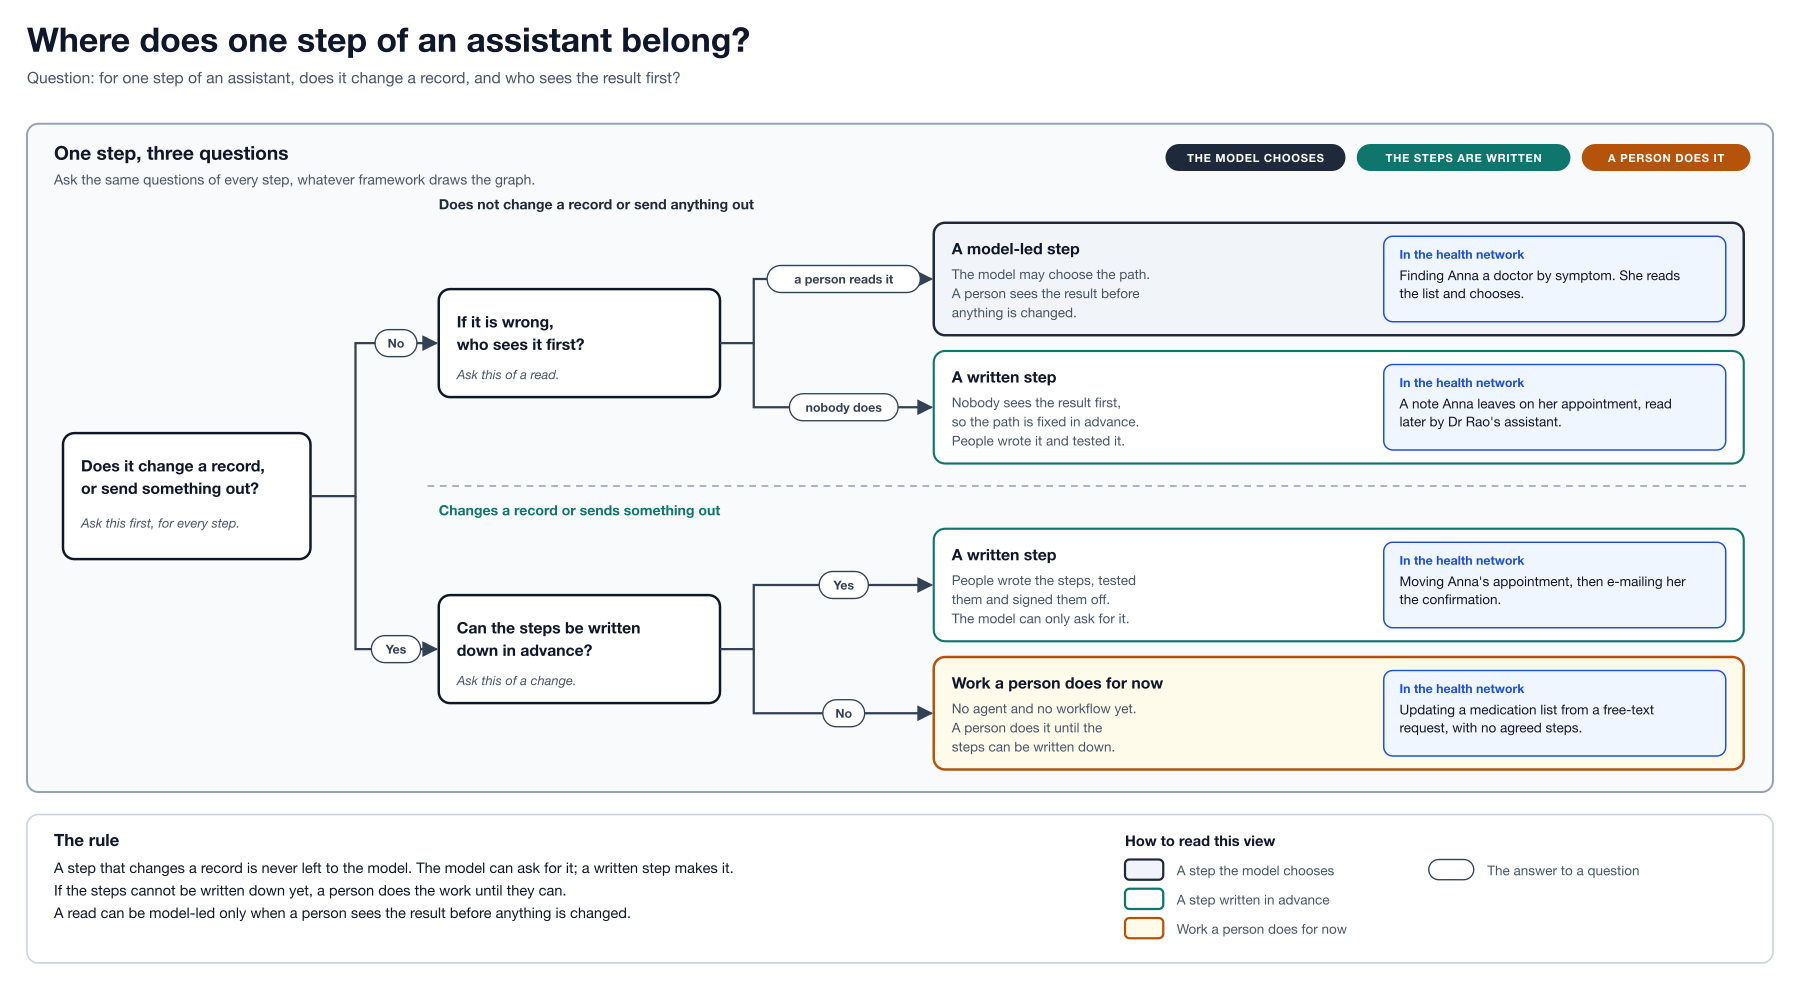
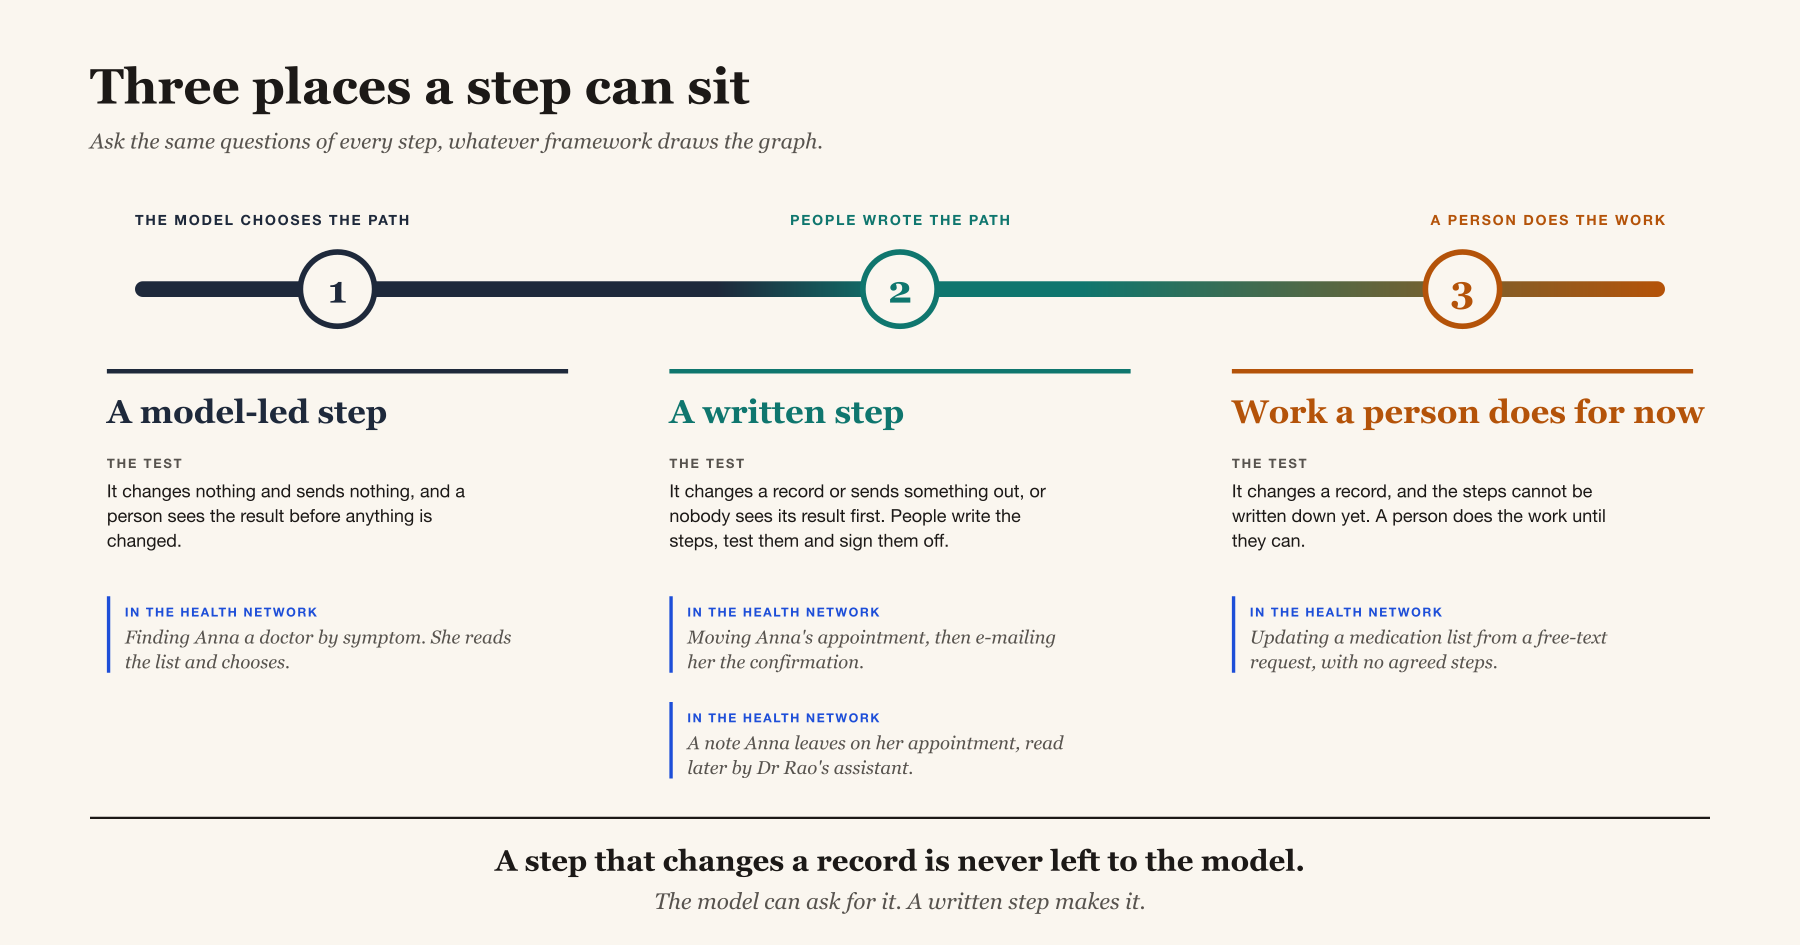
Redraw the sort of a step as one scale, with a different look from the logical view

Changed region(s): [[0.0311, 0.2148, 0.9644, 0.982], [0.0, 0.0307, 0.9956, 0.2148]]

diff --git a/01-agent-or-workflow/README.md b/01-agent-or-workflow/README.md
@@ -96,7 +96,7 @@ The variation that makes an agent useful at matching symptoms to doctors is the 
 
 Three questions place any step, in this order: does it change a system of record or send something out, can its steps be written down in advance, and if it is wrong, who sees it and when? A suggestion a person reads first can afford a looser path.
 
-![A decision tree placing one step as model-led, written in advance, or a person's work.](assets/step-tree.png)
+![A scale from the model choosing the path to a person doing the work, with three places a step can sit.](assets/step-tree.png)
 
 *My own sort for one step of an assistant. From my AI Agentic Reference Architecture.*
 
